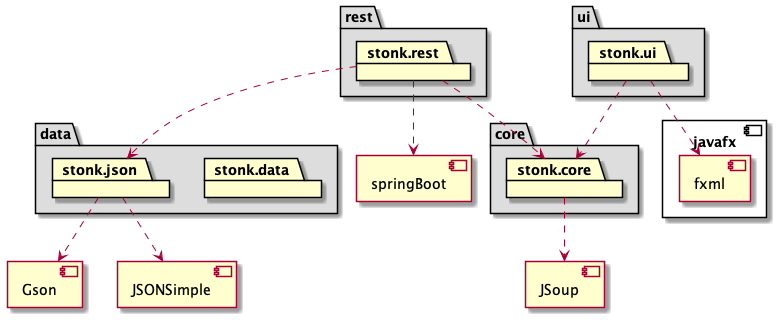
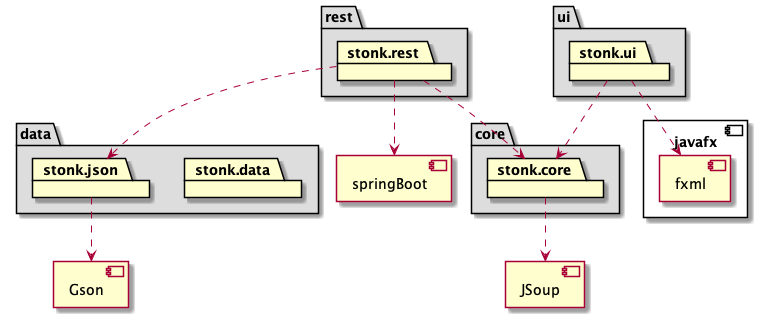
#75 Documentation: updated rest and stonk readmes

diff --git a/Stonk/README.md b/Stonk/README.md
@@ -22,15 +22,11 @@ The shippable product of our application comes in the form of a .jar file that i
 Using this we are able to get information about every given stock in real-time.
 ### Gson 
 Gson is a great Java library that primary use is to convert Java Objects into their JSON representation. It also gets used to convert a JSON string to an equivalent Java object. 
-### JSON-simple
-JSON-simple is s much simpler version of JSON. It uses a Java library library for JSON processing, read and write JSON data and full compliance with JSON specification.
 ### JAVAFX
 JavaFX is a Java library that simplifies the development of Rich Internet Applications (RIA). Applications written using this library can be run across different platforms. The applications can also be run on various devices such as computers, mobile phones, TVs and tablets.
 ### Spring Boot
 Spring Boot is an open source, micro-service-based Java network. The Spring Boot framework creates a completely production-ready environment that is fully configurable using the pre-built code in the code base. The Microservice architecture provides developers with a full-featured application, including embedded application servers.
 
-### Jlink
-Jlink is a tool that generates a custom Java runtime image that has only the platform modules that are required for an application.
 ### SpotBugs, CheckStyle and JaCoCo
 - Spotbugs has helped with finding unused codes and errors or bugs we were not able to find ourselves. 
 
@@ -57,34 +53,6 @@ SCRUM was a powerful tool that empowered us to fix our mistakes quickly and made
 Gitlab is great for enabling lean and agile project management especially for scrum projects. Here we were able to add issues, which had a deadline, labels and could be issued to grup members. THe milestone and board functionalities also helped us hold upå with deadlines.
 
 
-## Rest services
-
-All files will have the standard mapping "http://localhost:8080/ + the name of our requestmappings. 
-Here is a full list over all the mappings: 
-
-- test: 
-
-- user: Will return an ArrayList<User> of our users. 
-
-- isLoginValid/{username}/{password}: username and password will be based on input values, and the function checks that the values follows our specific criterias for logging in.
-
-- user/{username}/{password}: Username and password are from the current user. This method is for getting a specific users data, eg the corresponding stocks.
-
-- buy/{username}/{password}/{ticker}/{count}: username and password comes from the current user. Ticker is for searching up the stock and count says how many the user wants to buy. This adds the stock to your stocks and updates balance.
-
-- sell/{username}/{password}/{ticker}/{count}: username and password comes from the current user. Ticker is for searching up the stock and count says how many the user wants to sell. This removes the stock from your stocks and updates balance.
-
-- add/{username}/{password}/{ticker}: Username and password from the current user. Ticker for finding the stock. This will add the specific stock to the users watchlist.
-
-- remove/{username}/{password}/{ticker}: Username and password from the current user. Ticker for finding the stock. This will remove the specific stock from the users watchlist.
-
-- new/{firstname}/{lastname}/{username}/{password}/{cash}/{age}: This will create a new user with these values, and updates in database.
-
-- delete/{username}/{password}: This will delete the current user.
-
-- value/{username}/{password}/{cash}: This is used for adding more cash to your current balance.
-
-- save: Saves the updated information to the JSON-file.
 
 
 ## Files

diff --git a/Stonk/rest/README.md b/Stonk/rest/README.md
@@ -1,1 +1,33 @@
 # Rest
+
+
+
+## Rest services
+
+All files will have the standard mapping "http://localhost:8080/ + the name of our requestmappings. 
+Here is a full list over all the mappings: 
+
+- test: 
+
+- user: Will return an ArrayList<User> of our users. 
+
+- isLoginValid/{username}/{password}: username and password will be based on input values, and the function checks that the values follows our specific criterias for logging in.
+
+- user/{username}/{password}: Username and password are from the current user. This method is for getting a specific users data, eg the corresponding stocks.
+
+- buy/{username}/{password}/{ticker}/{count}: username and password comes from the current user. Ticker is for searching up the stock and count says how many the user wants to buy. This adds the stock to your stocks and updates balance.
+
+- sell/{username}/{password}/{ticker}/{count}: username and password comes from the current user. Ticker is for searching up the stock and count says how many the user wants to sell. This removes the stock from your stocks and updates balance.
+
+- add/{username}/{password}/{ticker}: Username and password from the current user. Ticker for finding the stock. This will add the specific stock to the users watchlist.
+
+- remove/{username}/{password}/{ticker}: Username and password from the current user. Ticker for finding the stock. This will remove the specific stock from the users watchlist.
+
+- new/{firstname}/{lastname}/{username}/{password}/{cash}/{age}: This will create a new user with these values, and updates in database.
+
+- delete/{username}/{password}: This will delete the current user.
+
+- value/{username}/{password}/{cash}: This is used for adding more cash to your current balance.
+
+- save: Saves the updated information to the JSON-file.
+
